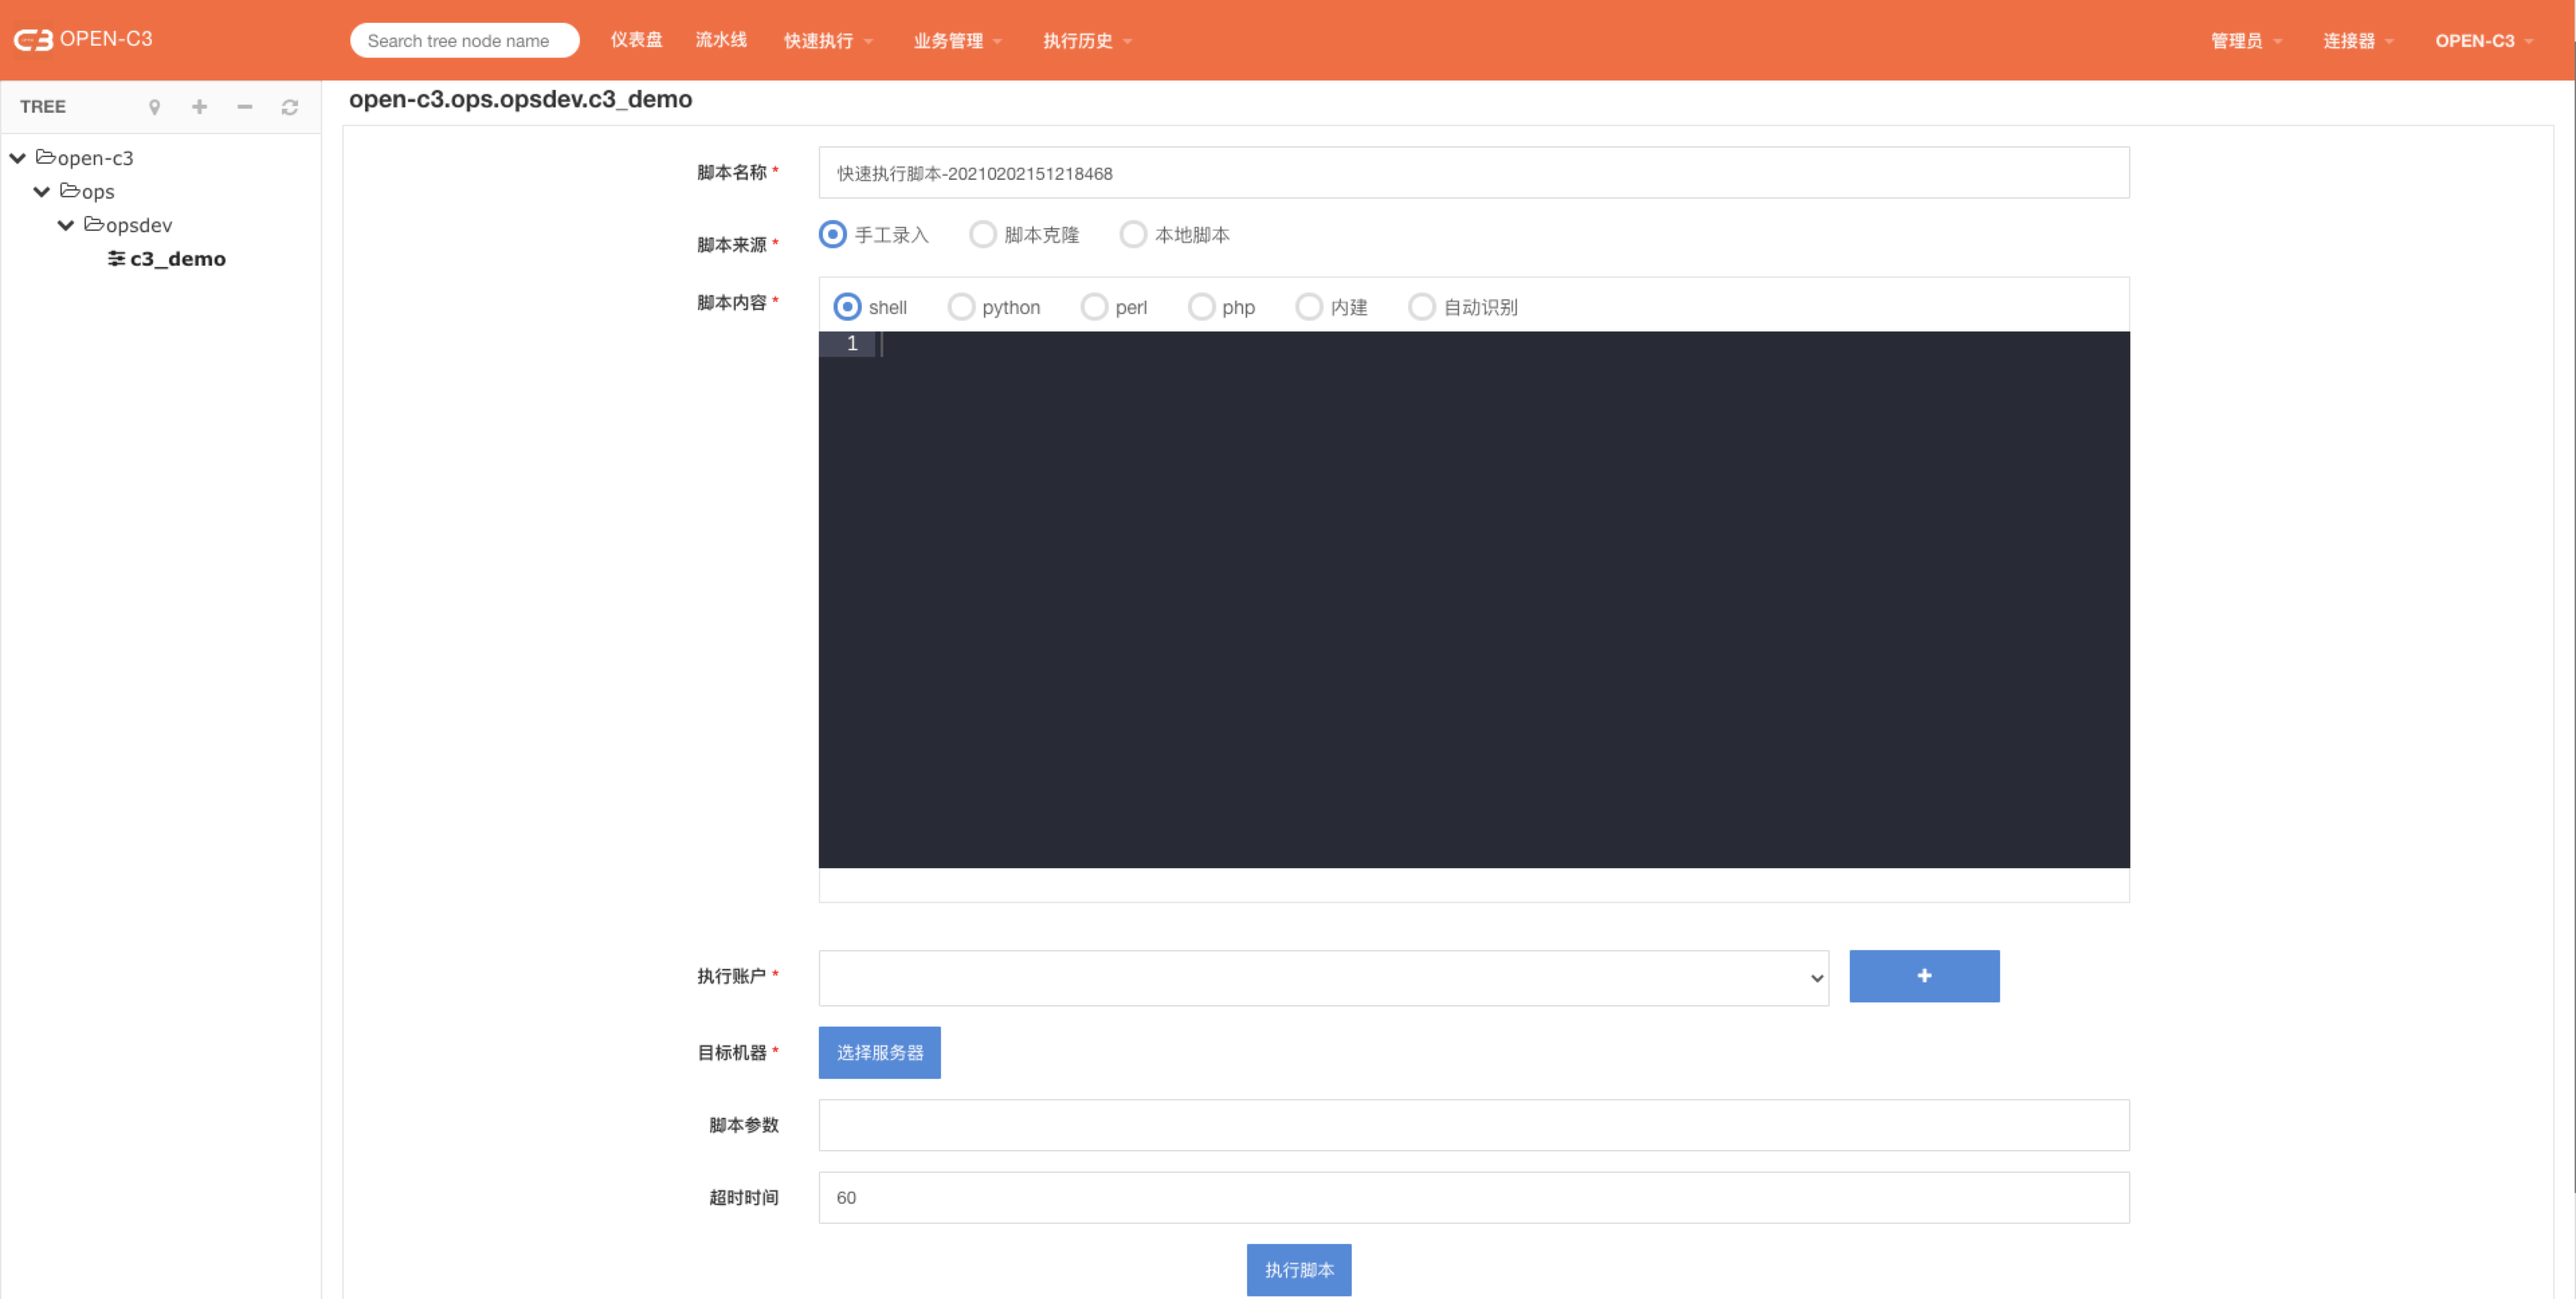
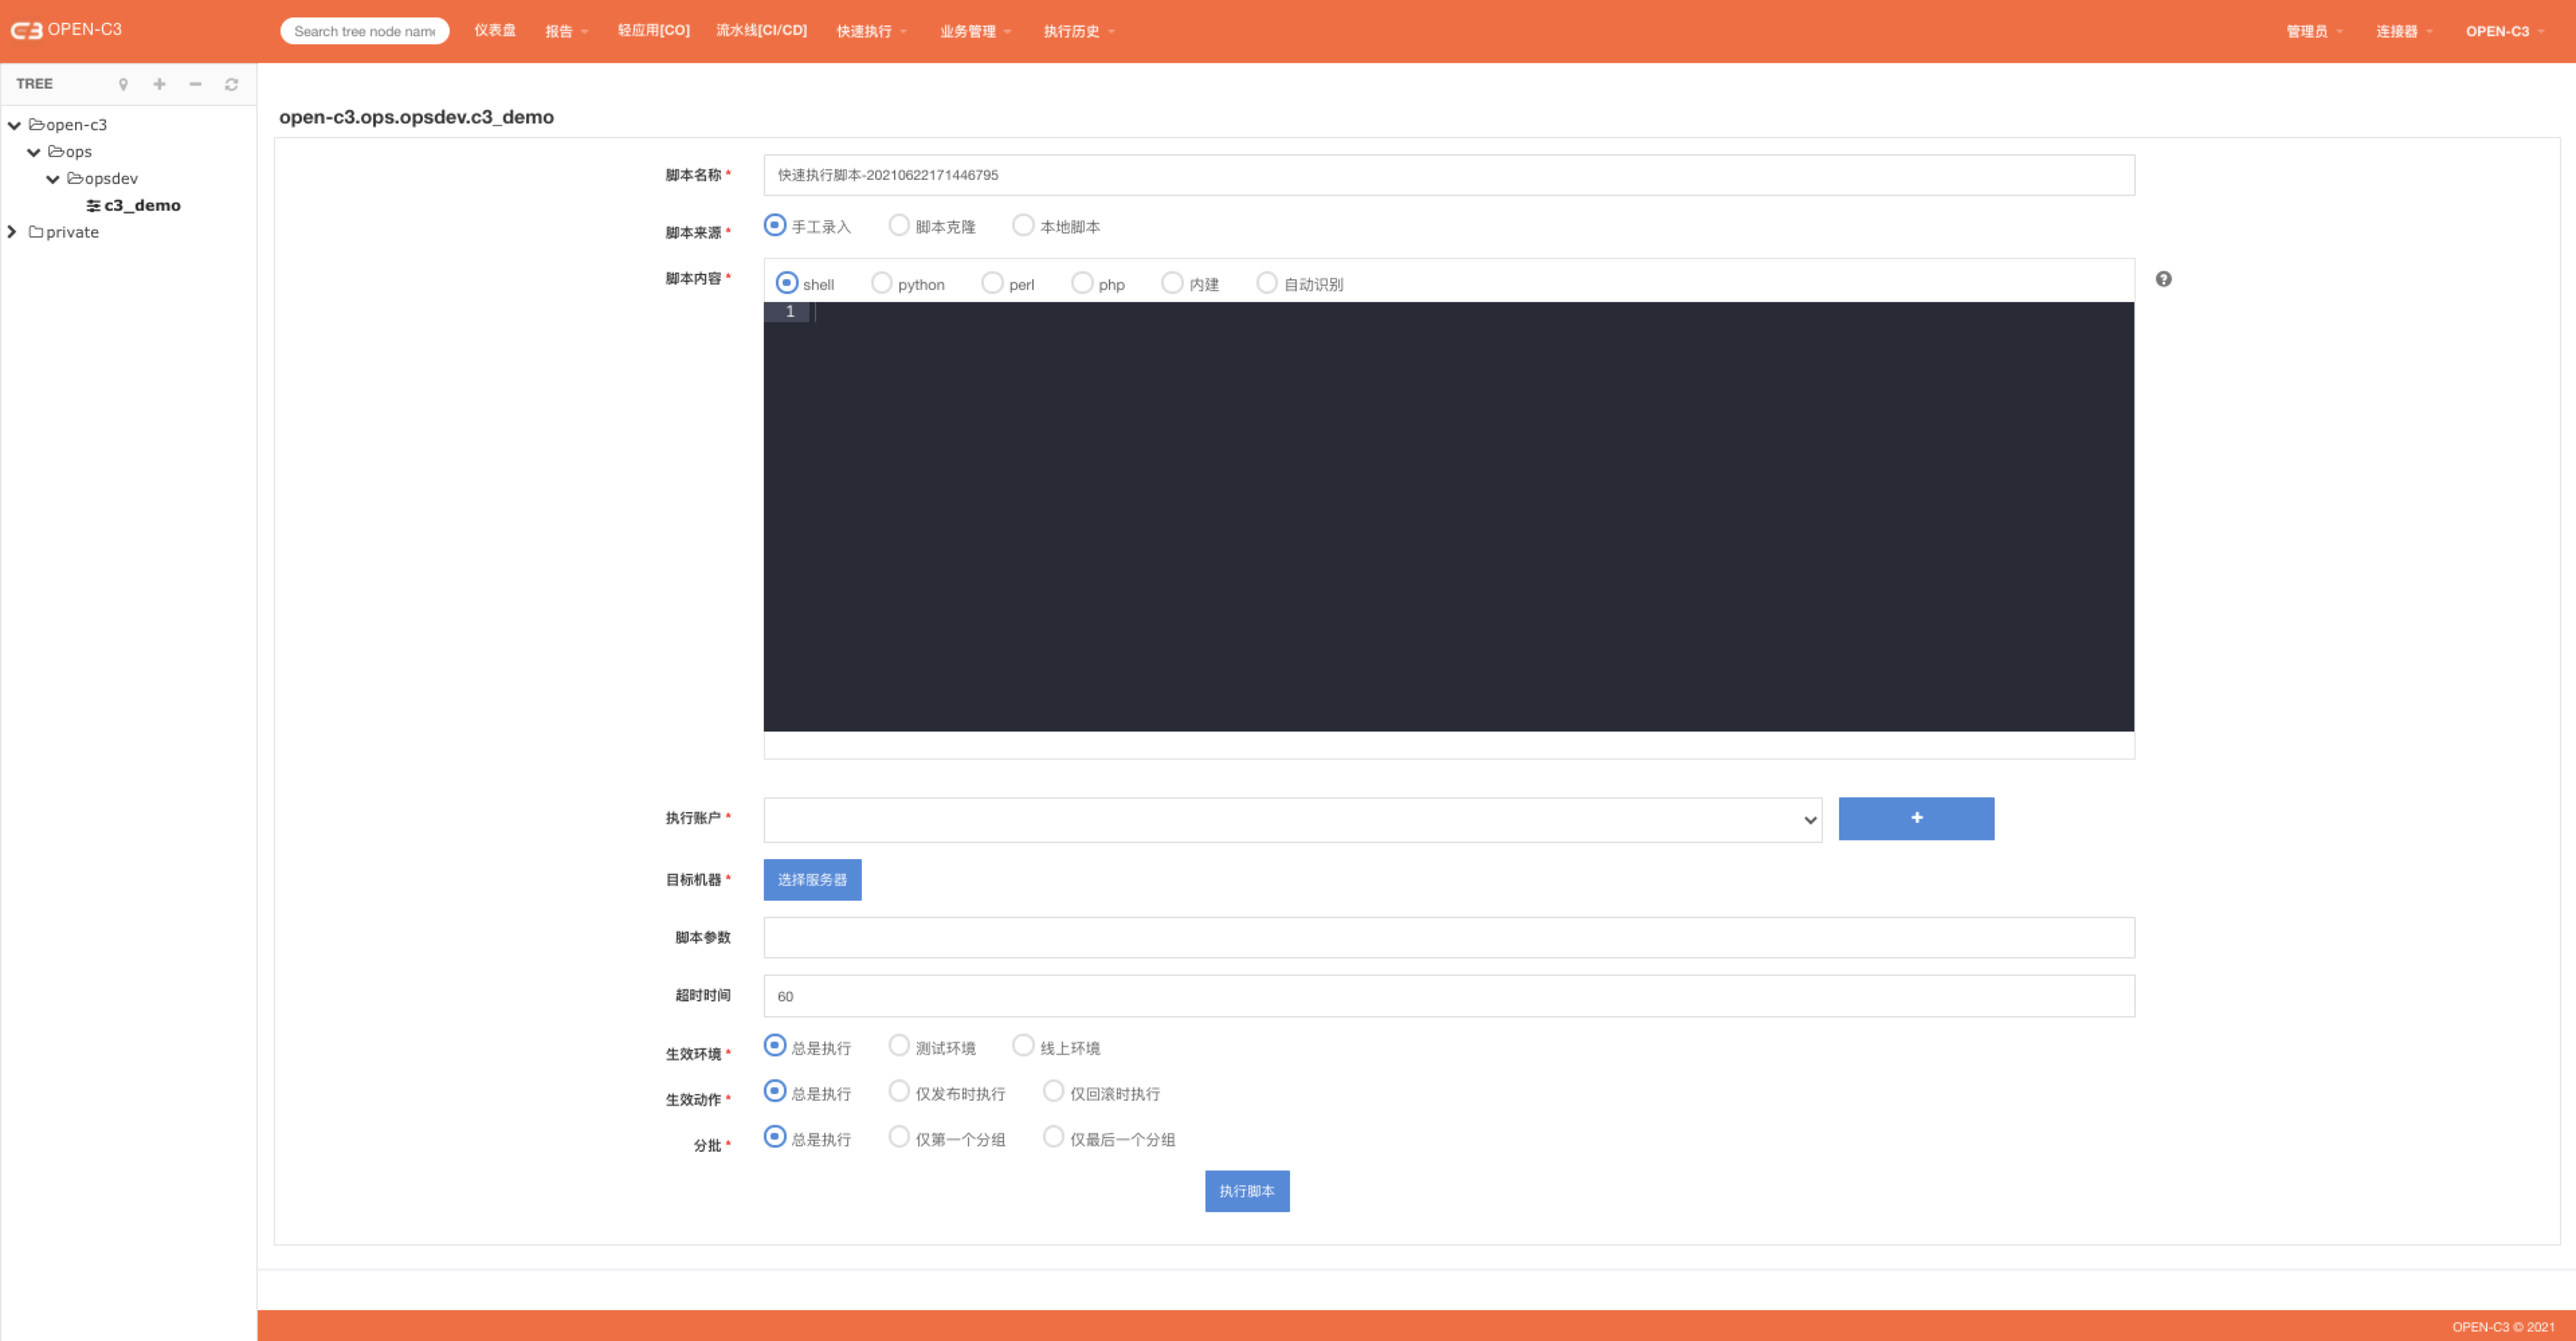
重新优化了快速执行脚本的说明

diff --git a/快速执行脚本/README.md b/快速执行脚本/README.md
@@ -1,70 +1,77 @@
+# 前置条件
+
+要使用快速执行脚本功能需要两个条件： 1.机器列表;2.Agent安装
+
+* > 机器列表的两个来源
+   * > 来自[服务树资源管理](/服务树资源管理/README.md)(如果对接了外部连机器，请到对应平台进行管理【如：[聚云立方服务树](https://console.polymericcloud.com/setting/settingGroup/setuptree)】)
+   * > 来自[机器管理](/机器管理/README.md)
+
+* > Agent安装涉及到[AGENT安装和管理](/AGENT安装和管理/README.md)
+
+# 功能介绍
 
 进入页面： 【快速执行】->【脚本执行】
 
-# 页面介绍
+## 页面介绍
 
 ![快速执行脚本空白页](/快速执行脚本/images/快速执行脚本空白页.png)
 
-
-## 脚本名称
+### 脚本名称
 
 默认生成，也可以进行修改，在执行历史中可以进行查找。
 
-## 脚本来源
+### 脚本来源
 
-* 手工录入，在当前页面进行编辑
+* > 手工录入，在当前页面进行编辑
+* > 脚本克隆，使用[脚本管理](/脚本管理/README.md)中的脚本，在这个基础上可以进行再编辑
+* > 本地脚本, 和克隆脚本类似，区别是它是一个引用，不可以进行再编辑
 
-* 脚本克隆，使用脚本仓库中的脚本，在这个基础上可以进行再编辑（[点击查看管理脚本方式](/TODO)）
-
-* 本地脚本, 和克隆脚本类似，区别是它是一个引用，不可以进行再编辑
-
-## 脚本内容
-
-* 脚本类型
+### 脚本内容
 
 脚本类型决定了怎么去执行该脚本，对应的执行方式如下：
 
-shell： /bin/bash scripst_path
+  * > shell： /bin/bash scripst_path
+  * > python: /usr/bin/python scripts_path 
+  * > perl: /usr/bin/perl scripts_path
+  * > php: /usr/bin/php scripts_path  
+  * > 自动识别: ./scripts_path
+  * > 内建：[内建插件](/内建插件/README.md)
 
-python: /usr/bin/python scripts_path 
+### 执行账户
 
-perl: /usr/bin/perl scripts_path
+远程机器上的用户，旁边的添加按钮可以用户添加。也可以到[账户管理](/账户管理/README.md)中进行管理。
 
-php: /usr/bin/php scripts_path  
+```
+添加用户并不会在远程机器上进行用户创建，只是一个本地的管理。
+在使用部分内建插件时，账号部分会变成票据，按照前端提示选择即可。
+```
 
-自动识别: ./scripts_path
-
-内建： 使用OPEN-C3部署机上的脚本执行，内置了 [terraform](/TODO)用于资源编排 和 [kubectl](/TODO) 用于发布kubernetes应用
-
-## 执行账户
-
-远程机器上的用户，旁边的添加按钮可以用户添加。（添加用户并不会在远程机器上进行用户创建，只是一个本地的管理）
-
-注： 在使用部分内建插件时，账号部分会变成票据，按照前端提示选择即可
-
-## 目标机器
+### 目标机器
 
 ![选择机器](/快速执行脚本/images/选择机器.png)
 
-选择机器分下面两种类型：
+目标机器的两种类型：
 
-* 勾选对应的ip地址
+* > 直接勾选对应的IP
+* > 选择[机器分组](/机器分组/README.md)中的机器组
 
-* 选择机器分组（[点击查看机器分组编辑方式](/TODO)）
+### 脚本参数
 
-## 脚本参数
+正常的脚本参数，如脚本参数为: abc 123 ，如果是shell脚本，可以通过$1 获取abc，通过$2获取123
 
-正常的脚本参数
+### 超时时间
 
-## 超时时间
+超时时间，单位为秒。超时后如果运行未结束，会失败退出，对应的脚本会收到kill TERM信号。
 
-超时后如果为运行结束，会失败退出，对应的脚本会收到kill TERM信号。
+### 其他开关
 
-# 执行
+这里的“生产环境”，“生效动作”，“分批”三个开关可以先忽略，在流水线中在展开讲解，此处先都默认选择“总是执行”
+
+## 执行
 
 ![执行结果](/快速执行脚本/images/执行结果.png)
 
-# 查看执行历史
+## 查看执行历史
 
 进入页面: 【执行历史】->【作业任务】
 

diff --git a/SUMMARY.md b/SUMMARY.md
@@ -48,6 +48,8 @@
     * [客户端内置命令](/客户端内置命令/README.md)
     * [我的镜像](/我的镜像/README.md)
     * [作业变量](/作业变量/README.md)
+    * [服务树节点管理](/服务树节点管理/README.md)
+    * [服务树资源管理](/服务树资源管理/README.md)
     * [管理员](/管理员/README.md)
         * [通知管理](/通知管理/README.md)
         * [模版管理](/模版管理/README.md)

diff --git a/核心功能/README.md b/核心功能/README.md
@@ -1,1 +1,3 @@
 # 核心功能介绍
+
+本章节主要描述OPEN-C3的核心功能，在描述核心功能的过程中会涉及到前置条件或者功能细节，本章也会提供快速跳转链接。

diff --git a/服务树节点管理/README.md b/服务树节点管理/README.md
@@ -1,0 +1,3 @@
+# 服务树节点管理
+
+

diff --git a/服务树资源管理/README.md b/服务树资源管理/README.md
@@ -1,0 +1,1 @@
+# 服务树资源管理
